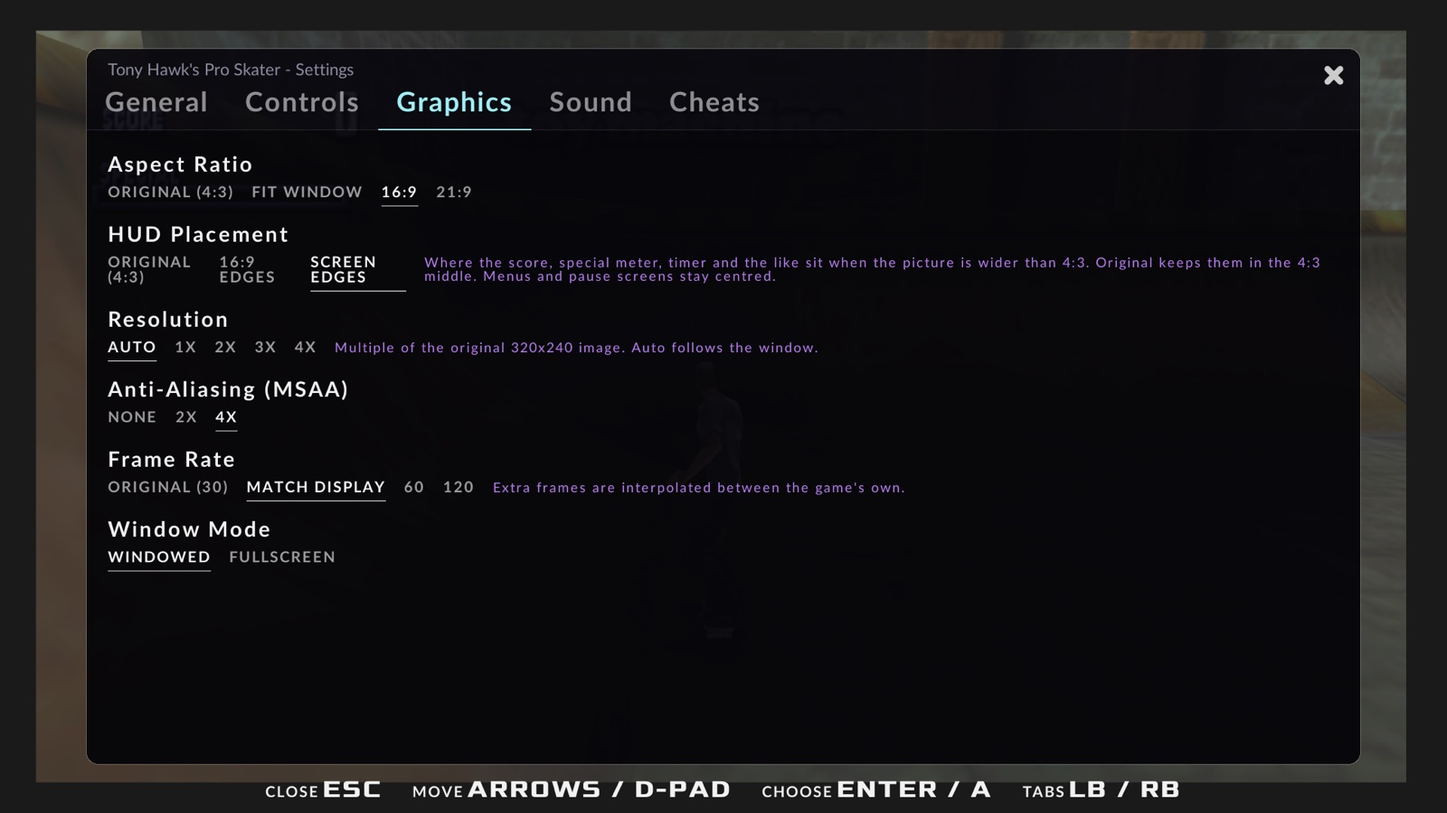
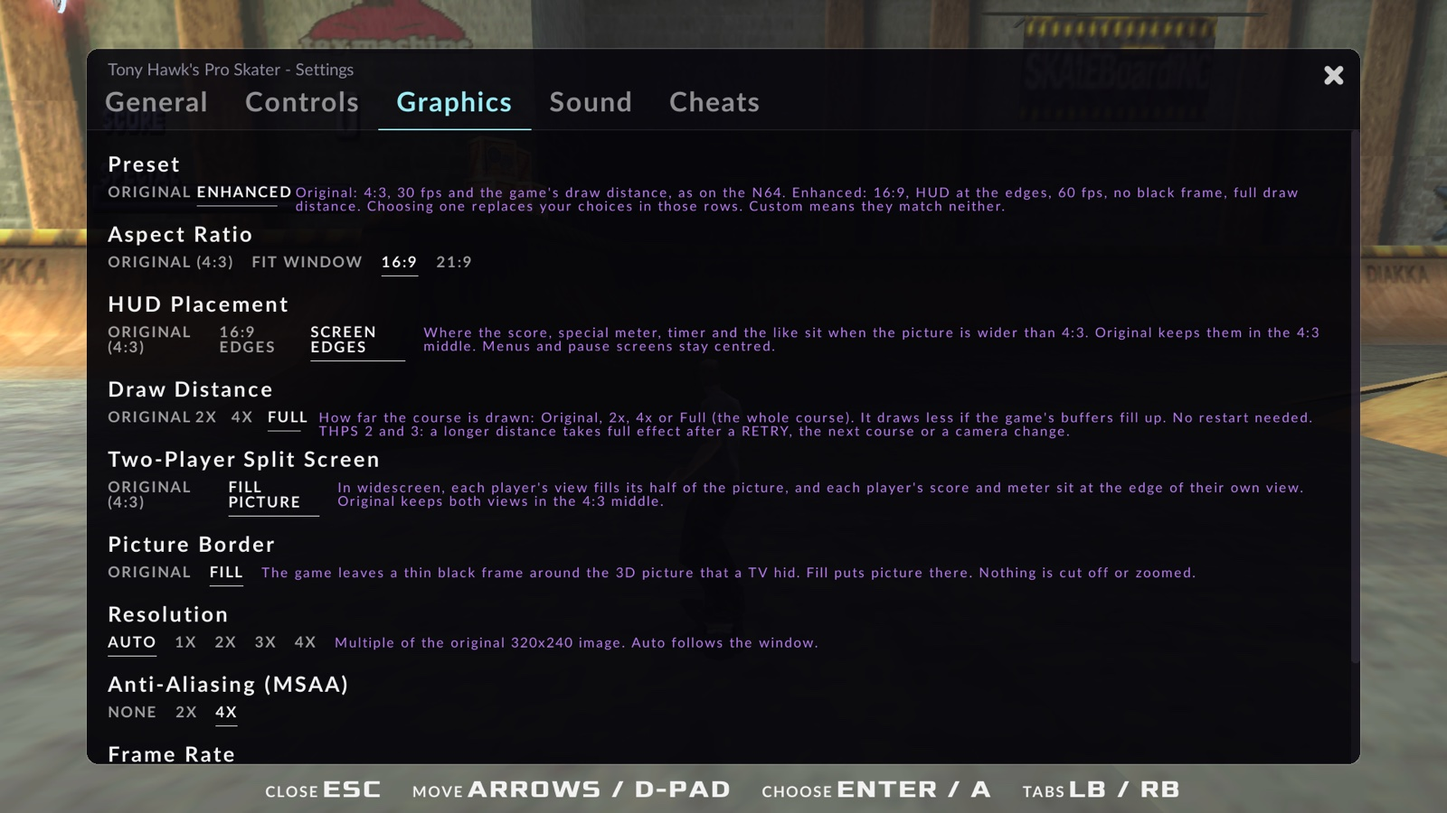
Settings: presets, fog, and frame rate Original or 60
- Docs: Frame Rate is Original (30) or 60, default 60 (THPS64Host v0.2.0
  removes "Match display" and 120).
- Tests: the frame-pacing session comments match the new options.
- Docs: the Graphics presets (Original and Enhanced) and the fog option
  (Original, Soft, Off; `graphics.cfg` and `--fog`, default Original) in
  the MANUAL and CHANGELOG.
- Tests: `fog-check` in the suite (Soft rewrites the game's fog command;
  Original after Soft gives the same picture) and the opt-in `fog-shot`.
- Test `fresh-defaults`: a first start with no graphics.cfg runs with
  Enhanced (Fill, Full) from the first frame.
- README: the settings screenshot shows the v0.2 Graphics tab.
- README: the v0.2 features, an Original or Enhanced section (a table of
  the six settings and a comparison screenshot), and the fixed 21:9
  known issue removed.

Made with AI assistance.

Changed region(s): [[0.0, 0.0, 1.0, 1.0]]

diff --git a/decomp/thps1/recomp-host/tests/scenarios.py b/decomp/thps1/recomp-host/tests/scenarios.py
@@ -1740,7 +1740,7 @@ SESSIONS += [
 import os as _os  # noqa: E402
 # Frame pacing in a visible window (2026-10-23, the user's "stuttery" report; optin): the title left alone until the attract demo runs
 # (frame times over PACE_DEMO frames), or with PACE_MODE=ride the first course (frame times over a 12 s ride). PACE_ARGS: host args (e.g.
-# "--refresh 60" or "--refresh display"). Run it with THPS1_BINARY of the build to compare.
+# "--refresh 60"; another rate, test-only: THPS_TEST_REFRESH=display|N in the environment). Run it with THPS1_BINARY of the build to compare.
 _PACE_RIDE = [("ctl", "vpad axis lefty -32767"),
               *[x for k in range(12) for x in (("ctl", f"vpad axis leftx {(-32767, 0, 32767, 0)[k % 4]}"), ("wait", 30))],
               ("ctl", "vpad axis lefty 0"), ("ctl", "vpad axis leftx 0")]
@@ -1757,6 +1757,74 @@ SESSIONS += [
         ]),
     ]),
 ]
+
+# Fog (src/fog.cpp, graphics setting `fog`; optin, evidence): one course's run start, paused (FS_PAUSE=0: not paused), captured with the
+# game's fog, Soft and Off, then the game's fog again (a second capture of the same state shows what moves on its own). FS_RIGHTS picks
+# the course, FS_ARGS adds flags (e.g. `--draw-distance full`), FS_RIDE "lefty:frames ..." (x=leftx:frames turns) rides to another spot
+# first, FS_STEPS "ctl command;shot NAME;..." adds steps (`fog soft 0.5;shot s50`: Soft starting at half the far plane). Captures:
+# <out>/fs_<name>/ (composited frames at --present-size), the `fog` counters in the notes.
+_FS_SHOT = lambda name: [("pcap", 3, f"fs_{name}")]
+_FS_STEPS = [s for c in _os.environ.get("FS_STEPS", "").split(";") if c.strip()
+             for s in (_FS_SHOT(c.strip()[5:].strip()) if c.strip().startswith("shot ") else [("ctl", c.strip()), ("wait", 20)])]
+_FS_AB = [
+    ("ctl_match", "fog", r"fog=original "), *_FS_SHOT("original"),
+    ("ctl_match", "fog soft", r"fog=soft "), ("wait", 20), *_FS_SHOT("soft"), ("ctl_match", "fog", r"fog=soft "),
+    ("ctl_match", "fog off", r"fog=off "), ("wait", 20), *_FS_SHOT("off"), ("ctl_match", "fog", r"fog=off "),
+    ("ctl_match", "fog original", r"fog=original "), ("wait", 20), *_FS_SHOT("original2"),
+    *_FS_STEPS,
+]
+_FS_ARGS = ["--skip-intro", "--hidden", "--unlock-levels", "--present-size", "960x540", "--aspect", "16:9", "--window", "1280x720",
+            "--refresh", "60"] + _os.environ.get("FS_ARGS", "").split()
+_FS_PAUSE = [
+    *([("vpad", "attach"),
+       *[s for st in _os.environ["FS_RIDE"].split() for s in (
+           ("ctl", f"vpad axis leftx {st[2:].split(':')[0]}") if st.startswith("x=") else ("ctl", f"vpad axis lefty {st.split(':')[0]}"),
+           ("wait", int(st.split(":")[1])))],
+       ("ctl", "vpad axis lefty 0"), ("ctl", "vpad axis leftx 0")] if _os.environ.get("FS_RIDE") else []),
+    *([("press", "START"), ("wait", 45)] if _os.environ.get("FS_PAUSE", "1") == "1" else []),
+]
+def _fs_to_run(rights, settle=300):
+    """The level select to course RIGHTS (2: Mall, 4: Downtown, 7: Streets), SETTLE frames after its start."""
+    return [("wait_for", "title"), ("go", "START", "title", "main_menu"), ("menu", "main", 3), *TO_LEVEL_SELECT,
+            *[s for _ in range(rights) for s in (("press", "RIGHT"), ("wait", 12))],
+            ("shot", "course_select"), ("press", "A"), ("wait", 600), ("press", "A"), ("wait", settle), ("shot", "in_level")]
+SESSIONS += [
+    dict(name="fog-shot", config="fog-config", fresh_pak=True, wav=False, optin=True, fresh_files=["graphics.cfg"], args=_FS_ARGS, scenarios=[
+        ("fog_shot", "fog: one course's start with the game's fog, Soft and Off (THPS1 writes its fog command only when the course has fog)", [
+            *_fs_to_run(int(_os.environ.get("FS_RIGHTS", "2")), int(_os.environ.get("FS_SETTLE", "300"))),
+            *_FS_PAUSE, *_FS_AB,
+        ]),
+    ]),
+]
+
+# fog-check: Streets, 300 frames after the start, paused, at the harness's fog = original. THPS1 writes its fog command only in a course
+# with fog (Streets has it). The `fog` counters say the command is found in each frame and rewritten with Soft, and Original after Soft
+# gives back the same picture (the edit is undone).
+SESSIONS += [
+    dict(name="fog-check", config="fog-check-config", fresh_pak=True, wav=False, present_every=10, fresh_files=["graphics.cfg"],
+         args=["--skip-intro", "--hidden", "--unlock-levels", "--aspect", "16:9", "--window", "1280x720"], scenarios=[
+        ("fog_check", "fog: Soft rewrites the game's fog command, Original puts it back (same picture)", [
+            *_fs_to_run(7),
+            ("press", "START"), ("wait", 60),
+            ("ctl_match", "fog", r"fog=original .*edits=0 "),
+            ("keep_present", "fog_original", "now"), ("wait", 30), ("keep_present", "fog_original_b", "now"),
+            ("ctl_match", "fog soft", r"fog=soft "), ("wait", 30),
+            ("keep_present", "fog_soft", "now"),
+            ("ctl_match", "fog", r"fog=soft start=\S+ tasks=[1-9]\d* found=[1-9]\d* edits=[1-9]\d* dirty=1 outstanding=[1-9]"),
+            ("ctl_match", "fog original", r"fog=original "), ("wait", 30),
+            ("keep_present", "fog_original2", "now"),
+            ("ctl_match", "fog", r"fog=original .* dirty=0 outstanding=0 "),   # every edit undone or overwritten: Original skips the walk again
+            ("present_cmp", "fog_original", "fog_original2", 0, 0.002, "mask:fog_original_b"),
+            # (no minimum for Soft here: THPS1's start views end short of the fog, so its effect is counted, not seen)
+        ]),
+    ]),
+]
+
+# The fresh-install defaults in force (review 2026-10-26, finding 2; the host's tests/menu_session.py): no graphics.cfg, not pinned to
+# the test defaults; Streets, which has fog.
+from menu_session import fresh_defaults_session  # noqa: E402
+SESSIONS.append(fresh_defaults_session(_fs_to_run(7)))
+
 # The bigger matrix pools on a constrained heap (review 2026-10-26, finding 1): THPS_DD_HEAP_FREE makes the planning see a free list of the
 # given blocks from the first pool request (at start-up), and both requests are taken from that view (`dd heap` view_fail counts one it
 # could not have satisfied: the real allocator hangs there). 150,000 bytes hold the game's two 32,000-byte pools but not one bigger

diff --git a/decomp/thps1/recomp-host/README.md b/decomp/thps1/recomp-host/README.md
@@ -230,7 +230,7 @@ Options:
   `--window WxH` (1280x720), `--res-scale N` (internal resolution multiplier,
   0 = auto from the window, the default), `--msaa 0|2|4|8` (default 4; Apple GPUs
   have no 8x, RT64 then turns MSAA off: see `[thps] gfx effective`),
-  `--refresh original|display|N` (frame interpolation target, default `display`;
+  `--refresh original|60` (frame interpolation target, default `60`;
   `original` = the game's 30 fps). For a 16:9 picture use a 16:9 window too.
   See [Graphics defaults](#graphics-defaults-and-high-frame-rate).
 - High frame rate: `--hfr-tags 0` (RT64's automatic pairing only, no cut handling),
@@ -309,6 +309,7 @@ and turns the fps check into a warning.
 | two-players-43 (`--aspect original`) | `two_players_43` | the paused split screen at 4:3: `split on`, `off`, `on` give the same picture (0 % of pixels differ) |
 | crop, crop-219, crop-43 (`--border fill`; 16:9, 21:9 at 1280x540, 4:3) | `crop_level_*`, `crop_pause_*`, `crop_menu_toggle` | Warehouse: each outer band of the presented frame holds picture (`border` step: >= 90 % of its lines), the stats count cropped tasks; the pause menu's bands are still (`edges`); Graphics > Picture Border switches the frame back and forth at run time (graphics.cfg) |
 | border-default (16:9, no flag) | `border_default` | the default leaves the black frame (every band <= 5 % picture) and crops no task |
+| fog-check (16:9, the harness's `fog = original`) | `fog_check` | Streets, paused: the game's fog command is found in every frame and rewritten with `fog soft` (`fog` counters); `fog original` after it gives back the same picture (0 % of pixels differ). Opt-in `fog-shot` (`FS_RIGHTS`, `FS_ARGS`, `FS_RIDE`, `FS_STEPS`): one course's start with the game's fog, Soft and Off, as pictures |
 | two-players-169-crop (`--aspect 16:9 --border fill`, two virtual pads) | `two_players_169_crop` | TWO PLAYERS > GRAFFITI, paused: both split views reach the window's edges (`border`: picture in all four bands), the split halves are cropped (`crop_halves`) and still widened (`split` views); `border original` (live) brings the black frame back and changes 1 % to 15 % of the pixels (the frame is about 11 %) |
 | hfr (`--refresh 60 --hidden --skip-intro`) | `input_latency` | main menu: median of 6 DOWN/UP presses -> first present with the cursor moved <= 100 ms (~22 ms seen) |
 | | `hfr_motion` | Warehouse, stick up 4 s, every present captured: frame_motion on a 60 Hz timeline >= 0.9 (1.0 seen; 0.5 at 30 fps), even steps (alternation <= 0.3; 0.01 seen, 1.0 at 30 fps), RT64 interpolating >= 90 % of game frames, >= 60 % of transforms paired (87–98 %), <= 5 % in-between frames dropped (0), fps >= 28 |
@@ -369,20 +370,22 @@ right-edge columns showed magenta (`patches/rt64-hfr.patch`).
 <!-- table-ok: our own settings, not game data -->
 | Setting | Default | Flag | Values |
 |---|---|---|---|
+| (preset) | Enhanced | `--preset` | not a key: sets aspect, hud, split, border, refresh and draw_distance at once (not fog). `original`: original / original / original / original / original / original; `enhanced` (a fresh config): 16:9 / expand / wide / fill / 60 / full. `gfx_describe` and `ui state` report `preset=original\|enhanced\|custom`, read back from the values. Menu: Graphics > Preset. Tests `menu-preset`, `gfx_cfg_test`; the harness pins the old defaults for keys a session's file lacks (`harness.TEST_GFX_DEFAULTS`) |
 | aspect | `16:9` | `--aspect` | `original` (4:3), `16:9`, `21:9`, `expand` (follow the window) |
 | window | `1280x720` | `--window WxH` | initial window size (`--fullscreen`) |
 | res_scale | `0` | `--res-scale N` | internal resolution; 0 = integer scale of the window (3x here, 9x fullscreen on 4K) |
 | msaa | `4` | `--msaa` | 0, 2, 4 (8 isn't offered by Apple GPUs: RT64 turns MSAA off) |
-| refresh | `display` | `--refresh` | `original` (the game's 30 fps), `display` (the display's rate: 60, 120 on ProMotion), or N (30..1000) |
+| refresh | `60` | `--refresh` | `original` (the game's 30 fps) or `60`. Before cfg_rev 3 also `display` and other rates: such a file moves to 60 once (120 Hz paced badly on a ProMotion Mac, 2026-10-23); measurements can still ask for another rate with the environment variable `THPS_TEST_REFRESH=display\|N` (not saved) |
 | hud | `expand` | `--hud` | HUD placement in widescreen: `original` (the HUD stays in the centred 4:3 area, as on a TV), `16:9` (score, special meter, tips... move to the edges of a 16:9 picture, also at 21:9), `expand` (the default: to the edges of the window's picture; the same as `16:9` in a 16:9 window). Nothing moves at `--aspect original`. Menu: Graphics > HUD Placement. Menus, loading screens, the pause menu and result pages always stay a centred 4:3 page. In a widened two-player split screen each player's HUD block goes to its own view's edge, with `original` too (the views fill the picture there; `16:9` uses the halves of a 16:9 picture) (`src/hud_anchor.cpp`; the same setting works in THPS2 and THPS3, rules per game in `game/game.toml`) |
 | split | `wide` | `--split` | two-player split screens in widescreen: `wide` each player's view fills its half of the wide picture (RT64 patch `rt64-splitscreen-widescreen.patch`), `original` both views stay in the centred 4:3 area (the picture before v0.2), black side bands, each player's HUD where the game draws it, whatever `hud` says. Nothing changes at `--aspect original`. Menu: Graphics > Two-Player Split Screen. Tests `two-players-169`, `-219`, `-169-hudorig`, `-169-splitorig`, `-43`, `menu-hud` |
-| border | `original` | `--border` | the game's 8 px frame around the 3D picture (scissor and depth clear inset by 8 px; a TV hid the edge): `original` keeps it, `fill` widens the inset scissor and clears to the whole 320x240 frame and drops the black top/bottom bands, so the 3D reaches the window's edges at every aspect, same scale (no zoom). 320-wide 3D frames only: the 640x480 front-end pages keep their frame. Menu: Graphics > Picture Border (`src/border_crop.cpp`; tests `crop*`, `border-default`) |
-| draw_distance | `original` | `--draw-distance` | how far the course is drawn: `original` (the game's own far plane), `2x`, `4x`, `full` (the whole course, and the course items the trigger scripts hide by area are drawn too; items hidden by name, on events, stay hidden). The far plane also sets the cull volume and the fog, so they move out with it. A governor steps back while a frame's display list or matrix pool is over 85 % full. Applies at once in both directions, no restart. Written to `graphics.cfg` only when not `original`. Menu: Graphics > Draw Distance. Control command `dd [mode M \| factor X \| testcap PCT \| reset]` (stats, high-water marks; `src/draw_distance.cpp`, `game/draw_distance.cpp`) |
+| border | `fill` | `--border` | the game's 8 px frame around the 3D picture (scissor and depth clear inset by 8 px; a TV hid the edge): `original` keeps it, `fill` widens the inset scissor and clears to the whole 320x240 frame and drops the black top/bottom bands, so the 3D reaches the window's edges at every aspect, same scale (no zoom). 320-wide 3D frames only: the 640x480 front-end pages keep their frame. Menu: Graphics > Picture Border (`src/border_crop.cpp`; tests `crop*`, `border-default`) |
+| draw_distance | `full` | `--draw-distance` | how far the course is drawn: `original` (the game's own far plane), `2x`, `4x`, `full` (the whole course, and the course items the trigger scripts hide by area are drawn too; items hidden by name, on events, stay hidden). The far plane also sets the cull volume and the fog, so they move out with it. A governor steps back while a frame's display list or matrix pool is over 85 % full. Applies at once in both directions, no restart. Always written to `graphics.cfg`. Menu: Graphics > Draw Distance. Control command `dd [mode M \| factor X \| testcap PCT \| reset]` (stats, high-water marks; `src/draw_distance.cpp`, `game/draw_distance.cpp`) |
+| fog | `original` | `--fog` | the game's distance fog (`src/fog.cpp`): the game writes one fixed `gSPFogPosition(996, 1000)` (`DB080000 7D008400`) inline at 0x800344F8, and only in a course with fog (Mall, Downtown, Burnside and Streets have it; the Chicago skate park has none). `original` leaves it; `soft` rewrites it so the ramp starts at 70 % of the far plane in use (r = far / near read off the frame's projections: 43.9 at Mall and Downtown, 52.7 at Streets), never steeper than the game's; where the game's own ramp starts nearer (Burnside: r 134.7, from about 65 %; any course at Full) it stays; `off` writes fm = fo = 0. Not in the menu or a preset. Control command `fog [original\|soft\|off] [START]` (live, not saved; the counters). Tests `fog-check`, `gfx_cfg_test`, `menu-preset` (a preset leaves fog alone) |
 | dd_buffers | `bigger` | `--dd-buffers` | the matrix pools behind draw distance: `bigger` sets up pools of 2048 at start-up whatever the setting, and the game's own cap (500) stays in force at `original` distance, so switching draw distance works at once; `original` = the game's own two `Heap_Alloc(gMainHeap, 32000, 8)`, byte for byte (the governor then keeps the distance within 500). Read at start-up only: a change needs a restart. Written to `graphics.cfg` only when `original`. Not in the menu |
 
 A `graphics.cfg` written before  that still holds exactly the old defaults (4:3, 960x720,
 no MSAA; the host saved them on first start) is moved to these once, with a log line; a file
-with any value you changed keeps it (a missing `refresh` line means `display`).
+with any value you changed keeps it (a missing `refresh` line means `60`).
 
 HUD Placement defaults to `expand` (2026-10-14). Builds before that saved `hud=original` on their first start, so a `graphics.cfg` without a `cfg_rev` line that says `hud=original` is moved to `expand` once, with a log line,
 and stamped `cfg_rev=2` (a line the host writes itself); from then on `hud=original` is a choice and stays (`tests/gfx_cfg_test.py`). Other values are never touched.

diff --git a/docs/MANUAL.md b/docs/MANUAL.md
@@ -128,7 +128,7 @@ the level.
 **Esc** (controller: **Back**) opens the settings menu over the game. Its tabs:
 - **General:** skip intro, show FPS;
 - **Controls:** the layout presets, the Controllers list and rebinding (see [Controls](#controls));
-- **Graphics:** aspect ratio, HUD placement, draw distance, two-player split screen, picture border, resolution, MSAA, frame rate, window mode;
+- **Graphics:** a preset (Original or Enhanced), aspect ratio, HUD placement, draw distance, two-player split screen, picture border, resolution, MSAA, frame rate, window mode;
 - **Sound:** volume;
 - **Cheats:** see [Cheats](#cheats).
 
@@ -154,15 +154,17 @@ A command-line flag overrides the value and **is saved back**.
 <!-- table-ok: our own settings, not game data -->
 | Key | Default | Values | Flag |
 |---|---|---|---|
+| (preset) | Enhanced | not a key: the menu's Preset row and `--preset` set six keys at once. `original`: `aspect original`, `hud original`, `split original`, `border original`, `refresh original`, `draw_distance original` (the game as on the N64). `enhanced`: `16:9`, `expand`, `wide`, `fill`, `60`, `full` (a new install starts with these). Choosing one replaces your choices for those six keys; resolution, MSAA, window mode and fog stay. The menu shows Custom when the keys match neither. An older file keeps every value it has, and a key it lacks takes the new default | `--preset original\|enhanced` |
 | `aspect` | `16:9` | `original` (4:3), `16:9`, `21:9`, `expand` (follow the window) | `--aspect` |
 | `window` | `auto` | the first window size: `auto` is 1280x720 (on Windows, enlarged by the display scaling); `WxH` is exact pixels | `--window WxH`, `--fullscreen`, `--windowed` |
 | `res_scale` | `0` | internal resolution multiplier; `0` is an integer scale of the window (3x at 720p) | `--res-scale N` |
 | `msaa` | `4` | `0`, `2`, `4` (Apple GPUs have no 8x; asking for it turns MSAA off) | `--msaa N` |
-| `refresh` | `display` | `original` (the game's 30 fps), `display` (the display's rate: 60, or 120 on ProMotion), or a number from 30 to 1000 | `--refresh X` |
+| `refresh` | `60` | `original` (the game's 30 fps) or `60` (in-between frames interpolated). An older `graphics.cfg` with `display` or another rate moves to 60 once | `--refresh X` |
 | `hud` | `expand` | HUD placement in widescreen: `original` (the centred 4:3 area, as on a TV), `16:9` (the edges of a 16:9 picture), `expand` (the edges of the window's picture). No effect at `aspect original`. Menus, the pause menu and result pages always stay a centred 4:3 page. In a widened two-player split screen each player's HUD sits at the edge of their own view, with `original` too | `--hud X` |
 | `split` | `wide` | two-player split screen in widescreen: `wide` each player's view fills its half of the picture; `original` both views stay in the centred 4:3 area with black bands at the sides, as on a TV, and each player's HUD stays inside its view. No effect at `aspect original` | `--split X` |
-| `border` | `original` | the thin black frame around the 3D picture. The game draws its 3D 8 pixels in from each edge of its 320x240 frame, and a TV hid that edge. `original` keeps the frame; `fill` draws the picture all the way to the edges of the window, at every aspect ratio. Fill shows a little more of the scene at the same size: nothing is cut off and nothing is zoomed. Menus and loading screens keep their own frame | `--border X` |
-| `draw_distance` | `original` | how far the course is drawn: `original` (the N64 game's own distance), `2x`, `4x`, `full` (the whole course). The fog moves out with it. While a frame comes close to filling the game's display list or matrix buffer, the distance steps back on that course. It applies at once, shorter or longer, with no restart | `--draw-distance X` |
+| `border` | `fill` | the thin black frame around the 3D picture. The game draws its 3D 8 pixels in from each edge of its 320x240 frame, and a TV hid that edge. `original` keeps the frame; `fill` draws the picture all the way to the edges of the window, at every aspect ratio. Fill shows a little more of the scene at the same size: nothing is cut off and nothing is zoomed. Menus and loading screens keep their own frame | `--border X` |
+| `draw_distance` | `full` | how far the course is drawn: `original` (the N64 game's own distance), `2x`, `4x`, `full` (the whole course). The fog moves out with it. While a frame comes close to filling the game's display list or matrix buffer, the distance steps back on that course. It applies at once, shorter or longer, with no restart | `--draw-distance X` |
+| `fog` | `original` | the game's distance fog, in `graphics.cfg` and on the command line only (not in the menu or a preset). The game fades the far end of the course toward the sky colour, but in most courses only over about the last eighth of the view, so it is thin by design and far scenery can pop in. `original` keeps the game's fog; `soft` starts it earlier (at 70 % of the draw distance), so far scenery fades in instead of popping in, and never has less fog than the game's own; `off` turns it off, which shows a long draw distance most clearly. At draw distance `full` the game's fog is already far beyond the courses, so `soft` looks like `original` there. Menus, the HUD and the sky are never fogged | `--fog X` |
 | `dd_buffers` | `bigger` | the matrix buffer behind draw distance. `bigger` sets up a larger one when the game starts, whatever `draw_distance` says, so that switching draw distance works at once; at `original` distance the game still uses only its own part of it. `original` keeps the game's own memory layout exactly; draw distance still works, but steps back sooner in the busiest courses. Not in the menu. A change needs a restart of the game | `--dd-buffers X` |
 
 The file also holds a `cfg_rev` line that the app writes itself; leave it. Files from earlier builds that say

diff --git a/CHANGELOG.md b/CHANGELOG.md
@@ -30,9 +30,23 @@ All notable changes to THPS1 64: Recompiled are listed here. The format is based
   keeps the game's own buffers and memory layout exactly; it needs a restart.
 - Tests: Europe's own reference pictures, for the few screens that differ from USA v1.1 (`OWN_REFS` in
   `tests/scenarios.py`), are recorded by `test.sh --version thps1_eu --record`.
+- Fog (`fog` in `graphics.cfg`, `--fog`; not in the menu or a preset): Original (the default), Soft or Off. The game's
+  fog is thin by design, a haze over the far end of the view (in most courses the last eighth). Soft starts it at 70 %
+  of the draw distance, so far scenery fades in instead of popping in; Off shows a long draw distance most clearly. At
+  Full draw distance the game's fog is far beyond the courses, so Soft looks like Original there. Test sessions
+  `fog-check` (in the suite) and `fog-shot` (opt-in pictures).
 
 ### Changed
 - Built on THPS64Host v0.2.0.
+- Frame Rate (Graphics tab, `refresh` in `graphics.cfg`, `--refresh`) is now Original (30) or 60, default 60. "Match display"
+  and 120 are gone: at 120 Hz (what "Match display" gave on a ProMotion Mac) the picture stuttered. A `graphics.cfg` with
+  `refresh=display` or another rate moves to 60 once, with a log line.
+- Graphics > Preset (`--preset original|enhanced`): Original sets 4:3, the HUD in the 4:3 area, the 4:3 split screen,
+  the black frame, 30 fps and the game's draw distance, as on the N64. Enhanced sets 16:9, the HUD at the screen edges,
+  the wide split screen, Picture Border Fill, 60 fps and Full draw distance. Choosing one replaces your choices in those
+  six rows; Custom shows when they match neither. A new install starts with Enhanced. An existing `graphics.cfg` keeps
+  its values, and a setting it lacks takes the new default (so an older file gets Picture Border Fill and Full draw
+  distance). Fog is in neither preset.
 - Removed the known issue "at 21:9, a far wall can drop out at the right edge". It doesn't happen in v0.1.0. New tests
   check that widescreen never hides scenery at the edges of the picture.
 - Two-player split screen fills the picture in widescreen (16:9, 21:9, following the window): each player's view is widened

diff --git a/README.md b/README.md
@@ -29,7 +29,10 @@ it on the first start.
 ## Features
 
 - **Widescreen:** 16:9, 21:9 or fit to window. The HUD moves to the screen edges.
-- **High frame rate:** the game's 30 fps interpolated to your display's refresh rate (60 Hz, 120 Hz, or higher).
+- **High frame rate:** the game's 30 fps interpolated to 60 fps.
+- **Draw distance:** see much more of each course (Original, 2x, 4x or Full).
+- **Picture Border:** Fill removes the thin black frame the N64 left around the picture.
+- **Two-player split screen** fills the picture in widescreen.
 - **Modern rendering:** RT64 on Metal (macOS) or Direct3D 12 (Windows), any resolution, MSAA.
 - **Recomp settings:** press **Esc** (or **Back** on a controller) for graphics, controls, sound and cheats. The game's
   own options are still in its menus.
@@ -42,6 +45,22 @@ it on the first start.
 ![The same moment at 16:9](docs/screenshots/warehouse-grind-16x9.jpg)
 
 ![The recomp settings menu, Graphics tab](docs/screenshots/settings-graphics.jpg)
+
+## Original or Enhanced
+
+The Preset row at the top of the Graphics tab sets six settings at once. New installs start with Enhanced. If you
+change a row yourself, the preset shows Custom.
+
+![Streets at the same moment: Original on the left, Enhanced on the right](docs/screenshots/original-vs-enhanced.jpg)
+
+| Setting | Original | Enhanced (default) |
+|---|---|---|
+| Aspect Ratio | 4:3 | 16:9 |
+| HUD Placement | 4:3 middle | Screen edges |
+| Frame Rate | 30 fps | 60 fps |
+| Draw Distance | As on the N64 | Full (the whole course) |
+| Picture Border | Thin black frame | Fill |
+| Two-Player Split Screen | 4:3 middle | Fills the picture |
 
 ## System requirements
 
@@ -88,7 +107,6 @@ All bindings and the N64 layout: [docs/MANUAL.md](docs/MANUAL.md).
 ## Known issues
 
 - A short freeze (about 0.1 s) when a level loads.
-- At 21:9, a far wall can drop out at the right edge.
 
 Full list: [docs/KNOWN-ISSUES.md](docs/KNOWN-ISSUES.md).
 

diff --git a/docs/TESTING.md b/docs/TESTING.md
@@ -23,7 +23,7 @@ You don't have to do all of this. Even one item, with a good report, helps. Abou
    game build. Note how long the build took and anything unclear on the way.
 2. **Front end.** The intro and logos, the main menu, OPTIONS. Turn on **Skip Intro** in the settings menu, quit, and start again.
 3. **Settings menu.** Open it with Esc (Back on a controller) and try each tab: aspect ratio (4:3, 16:9, 21:9), HUD placement,
-   frame rate (`display` and `original`), resolution, MSAA, window mode and full screen, volume. Quit and restart: the settings
+   frame rate (Original and 60), resolution, MSAA, window mode and full screen, volume. Quit and restart: the settings
    should still be there.
 4. **A career.** Start a career and play a level for a few minutes: ollie, flip, grab, grind, the special meter and a special trick. Pause,
    **Retry** a few times, then **End Run**.
